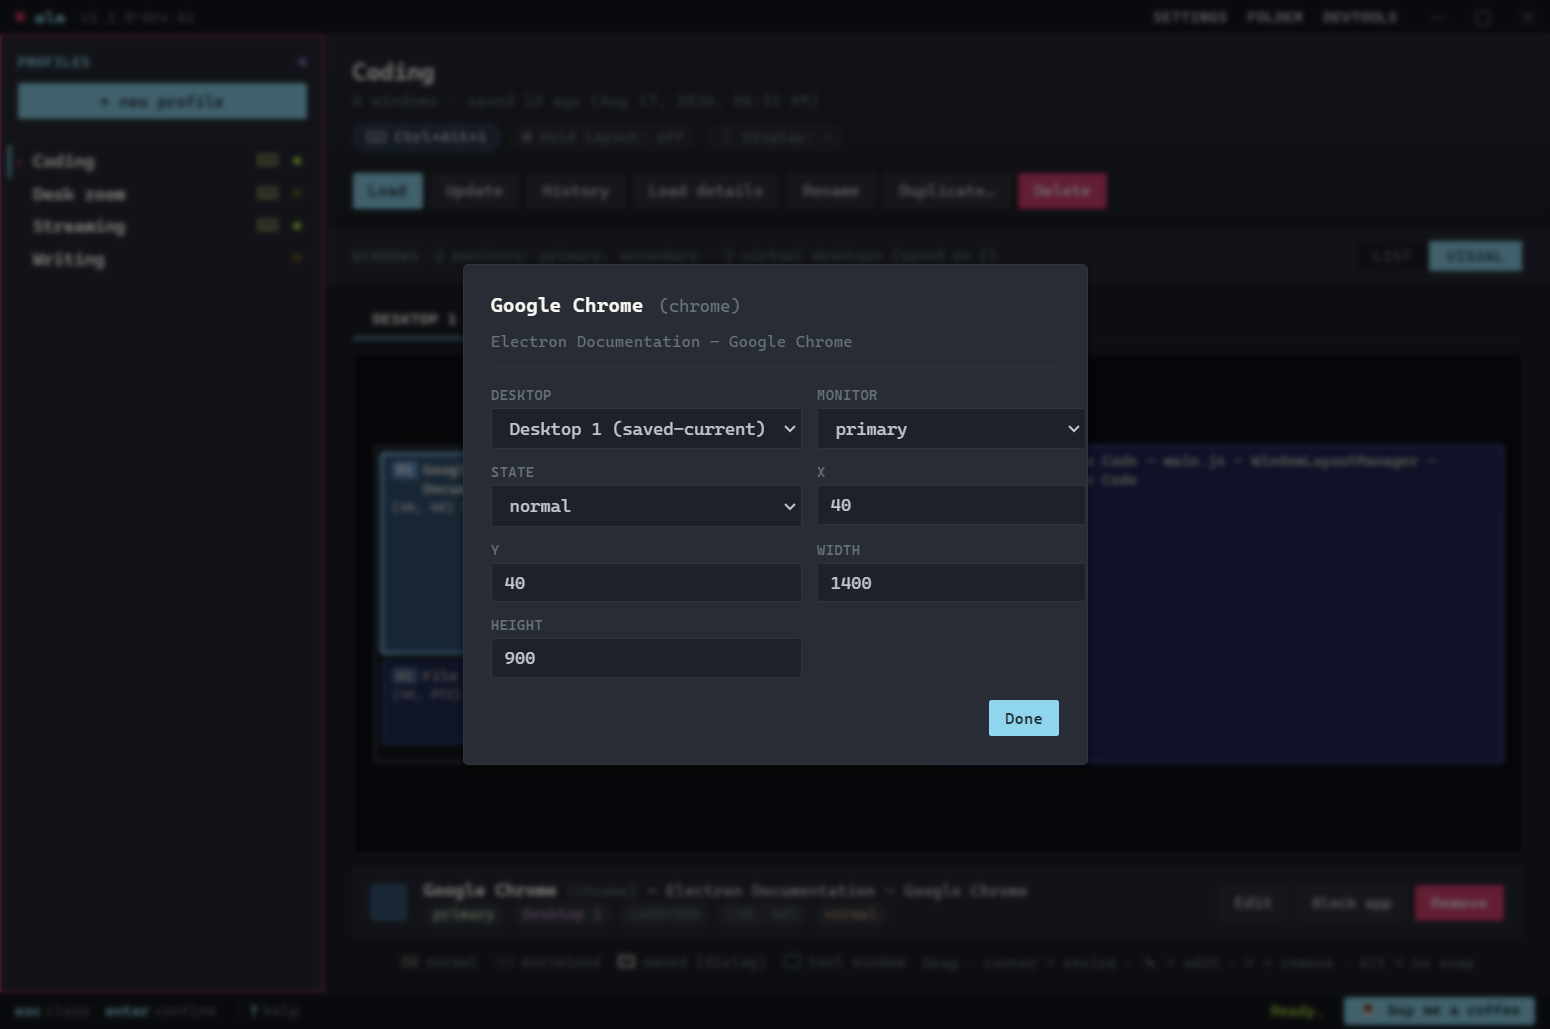
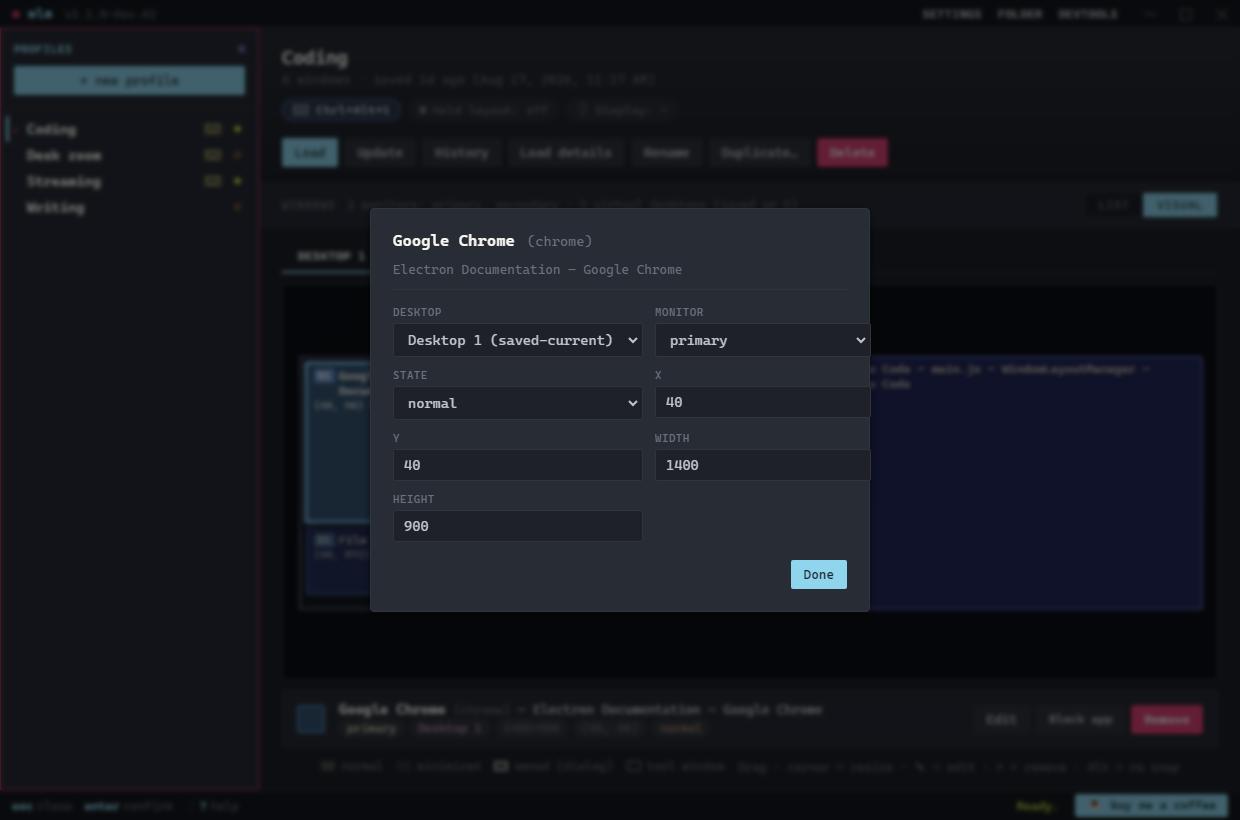
WLM: v1.1.0-dev.62 feed + tutorial update
Feed to dev.62. Tutorial corrected for the restructure: the zoom to
resolution table is described where it now lives, in Settings rather than
the per-profile Display editor, Parsec registration is a button opening
its own window rather than a section, and there are new subsections for
the plain-language summary line and for how displays get named when
Windows reports "Generic PnP Monitor" for all of them.

Fourteen screenshots regenerated, including a new one of the rules table
with its Matched by column.

diff --git a/projects/windowlayoutmanager/tutorial/index.html b/projects/windowlayoutmanager/tutorial/index.html
@@ -340,24 +340,29 @@
           <p class="prompt-line"><span class="u">wlm</span><span class="p">:~</span>$ <span class="cmd">wlm --tutorial display</span></p>
           <h2>Display Zoom &amp; Resolution</h2>
           <p>A profile can set your display scaling - the percentage in Settings &rarr; System &rarr; Display that everyone calls zoom - and your resolution, before it puts your windows back. Click the <strong>Display</strong> chip on any profile to set it up.</p>
-          <div class="shot"><a href="img/12-display-editor.png" target="_blank" rel="noopener" title="Open full size"><img src="img/12-display-editor.png" alt="Display editor: per-monitor scaling and resolution, plus the zoom to resolution mapping table" loading="lazy"></a></div>
+          <div class="shot"><a href="img/12-display-editor.png" target="_blank" rel="noopener" title="Open full size"><img src="img/12-display-editor.png" alt="Display editor: a plain-language summary of what the profile will do, and per-monitor scaling and resolution" loading="lazy"></a></div>
           <p class="caption">Every dropdown is filled from what Windows actually reports for that monitor. Nothing is hardcoded.</p>
+          <p>Displays are named by where they are and what size they run - "Left 4K", "Right 1080p" - because Windows reports the same useless name, "Generic PnP Monitor", for nearly every monitor. A virtual display says so.</p>
           <ul>
             <li><strong>Scaling</strong> - Pick a percentage, or pick <em>Step up one</em> / <em>Step down one</em>. The step options are relative: they move one rung along whatever ladder that monitor supports, worked out at the moment you press the key. That's the one you want on a hotkey.</li>
             <li><strong>Resolution</strong> - Every mode the driver offers, with its refresh rate. Leave either dropdown on "Leave unchanged" and the profile won't touch it.</li>
             <li>Each row shows what the monitor is set to <em>right now</em>, so you can see what you're changing from.</li>
           </ul>
-          <h3>Mapping a zoom level to a resolution</h3>
-          <p>Pair a percentage with a resolution for a specific monitor - 150% with 2560&times;1440, say. From then on, whenever that monitor gets set to 150%, the resolution comes with it: by this profile, by a step hotkey, by any other preset.</p>
-          <p>Mappings are stored per monitor rather than per profile, because they describe the hardware. If 150% means 2560&times;1440 on your 4K panel, that's true no matter which layout you're loading.</p>
-          <p>They're filed against the part of the monitor's hardware identity that doesn't change between sessions, so a rule set for a Parsec virtual display still applies the next time you connect.</p>
+          <h3>What this profile will do</h3>
+          <p>The top of the editor tells you, in words, what loading the profile is going to change. It's built from the same settings the Save button writes, so it can't drift from the truth. If a resolution is coming from one of your PC-wide rules rather than from the profile, it says so.</p>
+          <h3>Zoom to resolution rules</h3>
+          <p>These live in <strong>Settings &rarr; Auto-activation &rarr; Zoom to resolution rules</strong>, not in a profile, because they describe your hardware rather than a layout. If 150% means 2560&times;1440 on your 4K panel, that's true no matter which profile you're loading.</p>
+          <p>Pair a percentage with a resolution for a display, and from then on whenever that display gets set to that zoom level the resolution comes with it: by a profile, by a step hotkey, by anything.</p>
+          <div class="shot"><a href="img/14-settings-zoom-rules.png" target="_blank" rel="noopener" title="Open full size"><img src="img/14-settings-zoom-rules.png" alt="Zoom to resolution rules in Settings, with a Matched by column" loading="lazy"></a></div>
+          <p class="caption">Every rule names its display and says how it finds it.</p>
+          <p>Each rule shows what it's <strong>matched by</strong>. Rules are filed against the part of a display's hardware identity that doesn't change between sessions, so one set for a Parsec virtual display still applies the next time you connect. Two displays of the same model stay separate, because the key includes which output each one is on.</p>
           <h3>Picking a resolution</h3>
           <p>Resolution is two dropdowns, the way Windows and NVIDIA both do it: one for size, one for refresh rate. Sizes are grouped by shape (16:9, 4:3, portrait), the size your display runs natively is marked, and the older small sizes hide behind <strong>Show every size</strong>. Nothing is removed, it's one click away. One display on the test machine offers 227 modes, which as a single list was 229 entries.</p>
           <p>Pick a size that can't do your current refresh rate and WLM keeps the rate where it can, otherwise falls back to the highest that size offers and tells you it did. It won't silently jump to whatever was first in the list.</p>
           <h3>Resolutions your display doesn't list</h3>
           <p><strong>By hand</strong> opens width, height and refresh-rate boxes. A mode your display doesn't currently offer is still saved — it's flagged as not offered yet, and applies the moment the driver starts listing it. That matters for virtual displays, whose mode lists change depending on what the driver has been told about. A saved resolution your current display can't do shows up filled in and flagged, rather than as an empty box that looks like you never set anything.</p>
           <h3>Registering resolutions with Parsec</h3>
-          <p>Parsec's virtual display only offers what its driver knows about. The <strong>Parsec virtual display</strong> section registers up to two custom resolutions directly with that driver, behind one administrator prompt. Disconnect and reconnect your Parsec session and they appear in Windows display settings and in WLM's dropdowns.</p>
+          <p>Parsec's virtual display only offers what its driver knows about. The <strong>Parsec resolutions</strong> button, which appears when a Parsec display is connected, registers up to two custom resolutions directly with that driver, behind one administrator prompt. Disconnect and reconnect your Parsec session and they appear in Windows display settings and in WLM's dropdowns.</p>
           <div class="shot"><a href="img/13-display-parsec.png" target="_blank" rel="noopener" title="Open full size"><img src="img/13-display-parsec.png" alt="Registering custom resolutions with the Parsec virtual display driver" loading="lazy"></a></div>
           <p class="caption">Slots 2 to 4 are shown read-only — Parsec rewrites those itself on every connect.</p>
           <p>Two limits worth knowing, because the obvious expectation is wrong:</p>
